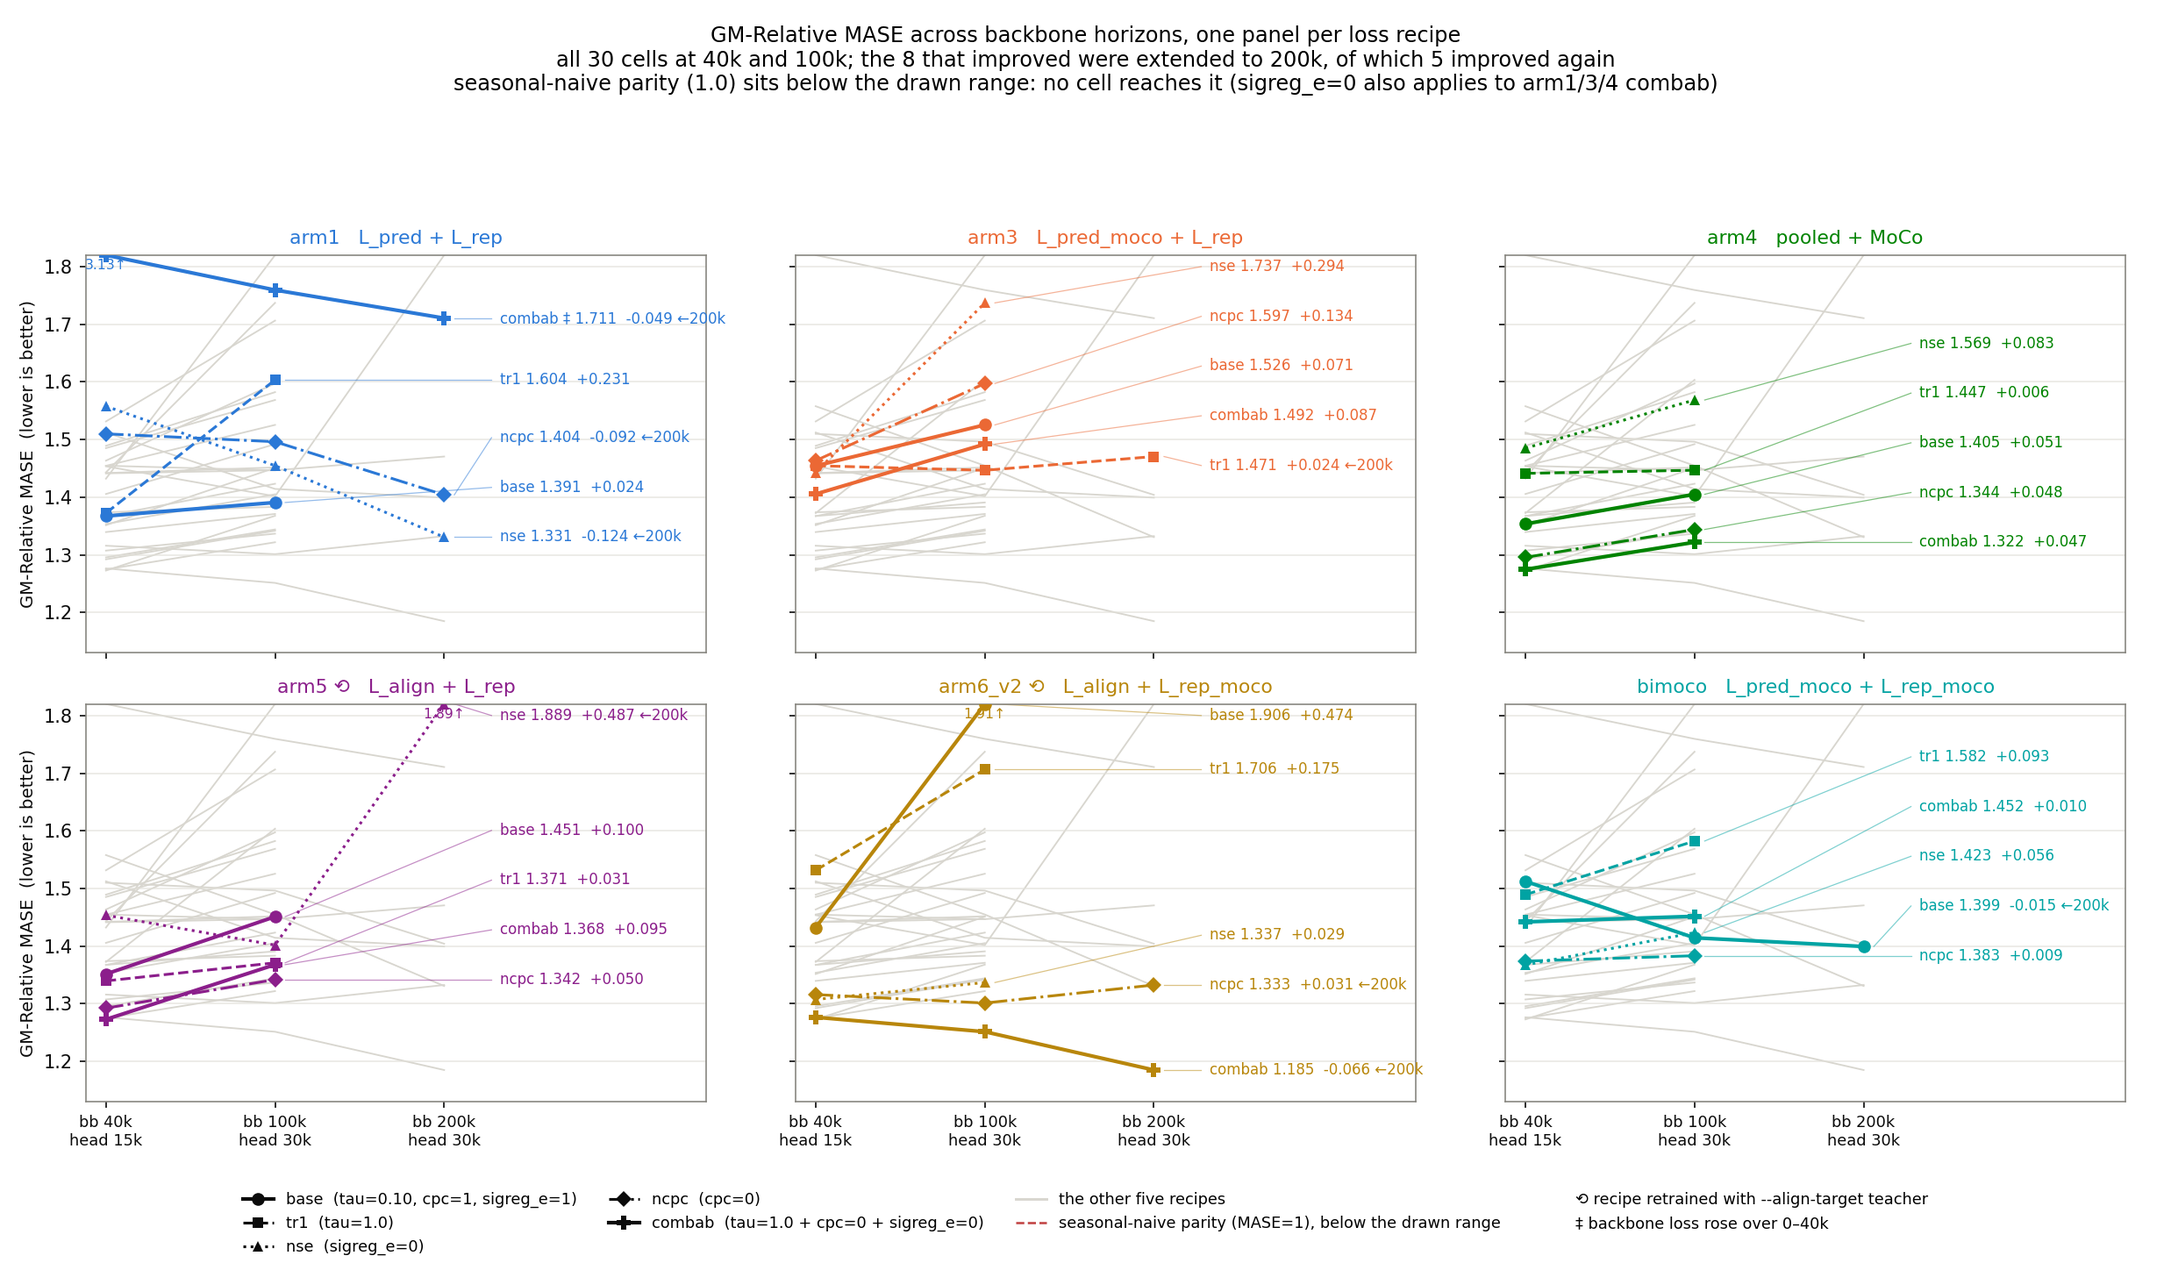
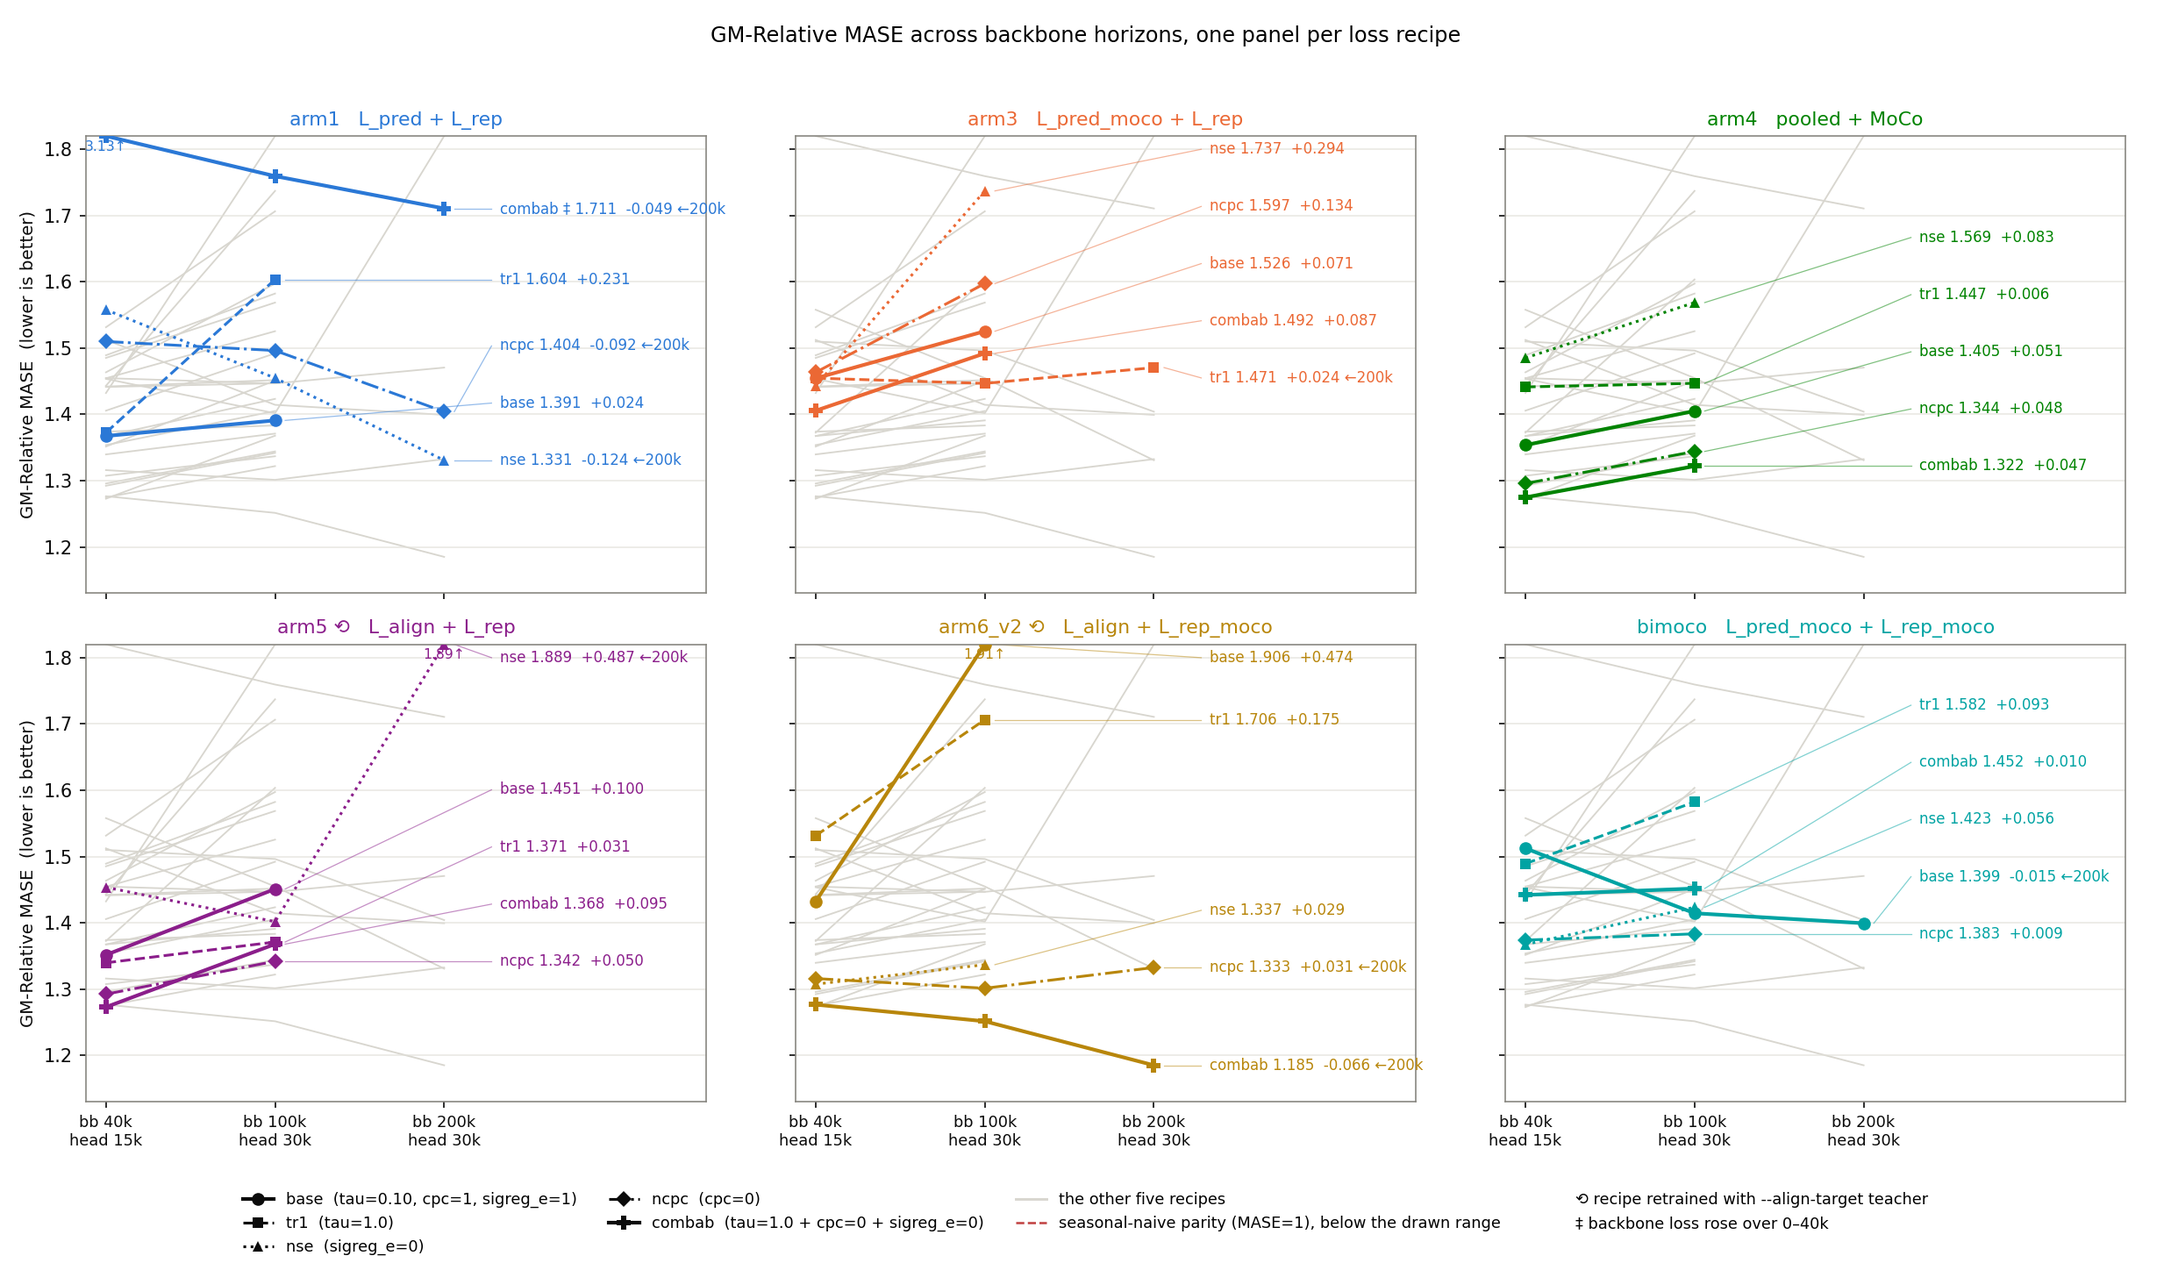
report(#390): state the teacher-vs-student premise in the opening, cut the protocol caveats that change no reading

diff --git a/reports/2026-08-04_lalign_teacher/plots/_make_eval_per_recipe.py b/reports/2026-08-04_lalign_teacher/plots/_make_eval_per_recipe.py
@@ -133,13 +133,9 @@ fig.legend(handles=handles, loc="lower center", ncol=4, fontsize=8.5,
 n200 = sum(1 for _a, _v, vals in cells if vals[2] is not None)
 down = sum(1 for _a, _v, vals in cells
            if vals[2] is not None and vals[1] is not None and vals[2] < vals[1])
-fig.suptitle("GM-Relative MASE across backbone horizons, one panel per loss recipe\n"
-             f"all 30 cells at 40k and 100k; the {n200} that improved were extended to 200k, "
-             f"of which {down} improved again\n"
-             "seasonal-naive parity (1.0) sits below the drawn range: no cell reaches it "
-             "(sigreg_e=0 also applies to arm1/3/4 combab)",
+fig.suptitle("GM-Relative MASE across backbone horizons, one panel per loss recipe",
              fontsize=11.5)
-fig.tight_layout(rect=[0, 0.075, 1, 0.905])
+fig.tight_layout(rect=[0, 0.075, 1, 0.96])
 out = HERE / "eval_2L_gm_mase_per_recipe.png"
 fig.savefig(out)
 print(f"wrote {out}  ({len(cells)} cells, {n200} at 200k, {down} improved again)")

diff --git a/reports/2026-08-04_lalign_teacher/lalign_teacher.md b/reports/2026-08-04_lalign_teacher/lalign_teacher.md
@@ -1,6 +1,6 @@
-# The EMA-teacher alignment target does not move the ten-cell set at backbone 40k, within a bound of 0.088 GM-Relative MASE
+# The EMA-teacher alignment target does not move the ten controlled pairs at backbone 40k, within a bound of 0.088 GM-Relative MASE
 
-Six of the ten controlled pairs favour the teacher and four the student, a split the paired tests do not separate from zero. Of the two cells re-headed under three head seeds, the larger effect changes sign under re-heading and the smaller one, `arm5 combab`, does not.
+The earlier sweep computed `L_align` against the student encoder; these ten cells retrain it against the EMA teacher. Six of the ten controlled pairs favour the teacher and four the student, a split the paired tests do not separate from zero. The `arm5 base` delta flips sign across the three head seeds; `arm5 combab` holds its sign on all three.
 
 ![Teacher minus student GM-Relative MASE at backbone 40k](plots/controlled_vs_cross_delta.png)
 
@@ -24,13 +24,13 @@ Six of the ten controlled pairs favour the teacher and four the student, a split
 
 ![The same data, one panel per loss recipe](plots/eval_2L_gm_mase_per_recipe.png)
 
-*The same 30 cells, one panel per loss recipe; the other five recipes stay in grey behind each panel. ⟲ retrained with `--align-target teacher`, ‡ the backbone whose loss rose over the whole 0–40k window (section 5).*
+*The same 30 cells, one panel per loss recipe.*
 
 In both retrained recipes `base` is the highest setting at backbone 100k, and in `arm6_v2` the `combab` setting is the lowest at all three backbone steps.
 
 ![GM-Relative MASE of all 30 cells at backbone 40k, seasonal-naive parity dashed](plots/eval_2L_gm_mase_bars.png)
 
-*All 30 cells at backbone 40k. Dashed line = seasonal-naive parity. ‡ = the backbone whose loss rose over the whole 0–40k window (section 5). † = measured head-seed range.*
+*All 30 cells at backbone 40k.*
 
 ![GM-Relative MASE of all 30 cells at backbone 100k](plots/eval_2L_gm_mase_bars_100k.png)
 
@@ -62,13 +62,13 @@ Four of the ten retrained cells score lower than the earlier sweep at backbone 1
 
 ![Late h_t drift against the 100k to 200k change in GM-Relative MASE](plots/drift_vs_improvement.png)
 
-*Panel 1 is the latent movement between adjacent checkpoints; panel 2 the GM-Relative MASE of the same cells; panel 3 late `h_t` drift against the 100k→200k change (`results/latent_movement_pairs.csv`).*
+*Latent movement, GM-Relative MASE and late `h_t` drift against the 100k→200k change (`results/latent_movement_pairs.csv`).*
 
 ## 5. The worst cell at each horizon
 
 ![Backbone loss and attention logit magnitude of the worst cell at each backbone step](plots/per_run_loss.png)
 
-*The three cells with the highest GM-Relative MASE of the field at backbone 40k, at 100k and at 200k (`results/gm_relative_mase.csv`, `results/training_curves/`, `results/attn_amplitude/`). Selected run in colour, the other four settings of the same recipe in grey.*
+*The three cells with the highest GM-Relative MASE of the field at backbone 40k, at 100k and at 200k (`results/gm_relative_mase.csv`, `results/training_curves/`, `results/attn_amplitude/`).*
 
 No non-finite loss or gap appears in any of the 40 backbones, and `arm1 combab` is the only one whose loss ends the 0–40k window above where it started ([table](#loss-and-attention-of-the-worst-cell)).
 
@@ -262,19 +262,19 @@ Nine of the ten student controls reproduce the earlier sweep's number and share 
 
 ### Metrics
 
-- **GM-Relative MASE** — geometric mean over 97 GIFT-Eval configs of `MASE(model) / MASE(seasonal_naive)`, official GIFT-Eval **B4 strategy** (single-window in-context prediction, backbone context length matching the config's expected horizon), forecast horizon 16. Lower is better; above 1.0 means seasonal naive wins on that geometric average. All 30 cells share one seasonal-naive denominator file, byte-identical to the earlier sweep's, so all of them sit on one scale. The 20 cells without `⟲` carry no `L_align` term and are the earlier sweep's numbers, on that same denominator.
-- **Per-config sources** — `results/eval_gm_mase/<cell>_bb<step>k_hd<head>s/all_results.csv`, one directory per cell, backbone step and head seed. The per-domain figure and table read from those files.
-- **Rounding** — every aggregate in this report is computed at full precision from the per-config `all_results.csv` files and rounded once, to four decimals, at print time. A per-seed difference can therefore differ by 0.0001 from the difference of the two rounded numbers printed beside it. The reproduction-control table is the exception: it prints six decimals, and a row counts as reproducing when the difference is at most 0.0002 in absolute value, the resolution of the four-decimal tables elsewhere.
+- **GM-Relative MASE** — geometric mean over 97 GIFT-Eval configs of `MASE(model) / MASE(seasonal_naive)`, official GIFT-Eval **B4 strategy** (single-window in-context prediction, backbone context length matching the config's expected horizon), forecast horizon 16. Lower is better; above 1.0 means seasonal naive wins on that geometric average. All 30 cells share one seasonal-naive denominator file, byte-identical to the earlier sweep's, so the 20 cells without `⟲`, which carry no `L_align` term and are the earlier sweep's numbers, sit on the same scale as the retrained ten.
+- **Per-config sources** — `results/eval_gm_mase/<cell>_bb<step>k_hd<head>s/all_results.csv`, one directory per cell, backbone step and head seed.
+- **Rounding** — every aggregate in this report is computed at full precision from the per-config `all_results.csv` files and rounded once, to four decimals, at print time. A per-seed difference can therefore differ by 0.0001 from the difference of the two rounded numbers printed beside it.
 - **95% dataset-cluster bootstrap** — the one interval used everywhere in this report: a dataset-level paired cluster bootstrap over the 28 base datasets, 10 000 resamples (`experiments/2026-08-01_lalign_teacher/scripts/controlled_delta.py`). It covers eval sampling only, conditional on the two trained models. The interval is computed on the ratio of the two GM-Relative MASE values; the whiskers in the delta figures are `(bound − 1) ×` the reference cell's GM-Relative MASE, which is what "rescaled" means in those figures.
-- **Head-seed range** — the spread of a cell's GM-Relative MASE when the quantile head is retrained on the frozen backbone under extra seeds, changing its init and its data order, with the full 97-config eval re-run each time. It covers head retraining, which the bootstrap interval does not. **It is a property of one cell.** The eight frozen backbones measured here range from 0.0018 to 0.0908, and the four measured at backbone 40k with a 15 000-step head, where every controlled delta sits, range from 0.0018 to 0.0747. The 0.0908 comes from a backbone-200k cell with a 30 000-step head, so it does not gate a 40k delta; `results/seed_spread.csv` keys on arm, backbone step, align target and code snapshot, and never merges a teacher cell with a student cell.
+- **Head-seed range** — the spread of a cell's GM-Relative MASE when the quantile head is retrained on the frozen backbone under extra seeds, changing its init and its data order, with the full 97-config eval re-run each time. It covers head retraining, which the bootstrap interval does not. The eight frozen backbones measured here range from 0.0018 to 0.0908, and the four measured at backbone 40k with a 15 000-step head, where every controlled delta sits, range from 0.0018 to 0.0747.
 - **`h_t`, `e_t`** — the encoder-output latent and the patch-embedding latent, shape `[B, T, C, H]`.
 - **`ff`** — mean `cos(f̂, h_{t+1})` between the forecaster's next-step prediction and the encoder's next-step latent, unit-normalised. `1 − ff` is a cosine distance in [0, 2]; smaller = closer forecast.
 - **Latent drift** at checkpoint pair `(step_i, step_j)` — `mean_{b,t,c} 1 − cos(h_t(model_j), h_t(model_i))` on a fixed held-out batch (`torch.manual_seed(20260722)`, `B=8`, `T=4096`, `C=1`, ARMA-synthetic), and the same for `e_t`. A setting counts as *lower* than base when its mean drift over adjacent-checkpoint pairs falls below the base setting of the same recipe; the section-4 denominator is the six recipes and the p is a two-sided exact binomial test.
 - **Late drift** — the mean `h_t` drift over adjacent-checkpoint pairs beyond backbone step 100 000.
 - **`u_batchtime`** — `1/(d · off-diagonal Gram mean)` over `(B×T)` samples of the given latent, clamped to [0, 1]. 1 = every `H` dimension carries independent information.
 - **`L_align`** — `(2 − 2·cos(f_t, h_target_{t+1})).mean()`, pulling the forecaster output toward the next encoder latent, gradient through the forecaster only. `--align-target student` takes `h_target` from the student encoder under stop-gradient; `--align-target teacher` takes it from the EMA teacher, an exponential-moving-average copy of the encoder weights. The student target is the comparison side of every controlled delta here; the ten `⟲` cells are the teacher setting.
-- **Re-headed** — the quantile head was retrained on the same frozen backbone under a different `--seed`. The backbone is unchanged.
-- **Code snapshot** — which checkout produced a number: `#390-branch` is this branch, `#379-sweep` is the earlier sweep it is compared against. The column is `code_snapshot` in `results/gm_relative_mase.csv`.
+- **Re-headed** — the quantile head was retrained on the same frozen backbone under a different `--seed`.
+- **Code snapshot** — the `code_snapshot` column of `results/gm_relative_mase.csv` records which checkout produced a number: this branch, or the earlier sweep it is compared against.
 - **Loss window** — each loss value in section 5 is the mean over the first, or the last, 5% of the logged steps of that window, not the value at a single step. **Rise-from-minimum** is the run's final loss minus the lowest loss it ever recorded; rank 1 = lowest of the 40 backbones, the same direction as the peak qk logit rank.
 - **Peak qk logit** — `qk_logit_maxabs`, the peak absolute pre-softmax attention logit, logged every 200 steps; the table value is the maximum over layers, over the `enc` and `fcst` blocks, and over the run, while the lower panels of the section-5 figure plot it averaged over layers and blocks. Rank 1 = lowest of the 40 backbones.
 
@@ -298,21 +298,19 @@ Quantile head, trained on the frozen backbone, `--grad-clip 1.0` at every horizo
 | `--total-steps` | 15,000 | 30,000 | 30,000 |
 | head seed | 20260722 | 20260722 | 20260722 |
 
-Eight cells were additionally re-headed under seeds 20260723 and 20260724 on the same frozen backbone, everything else unchanged: `arm5 base` and `arm5 combab` at 40k on both the teacher and the student side, `arm6_v2 base` at 100k, and `arm5 nse`, `arm6_v2 ncpc` and `arm6_v2 combab` at 200k on the teacher side. `experiments/2026-08-01_lalign_teacher/scripts/run_head_seeds.sh` runs them; `scripts/verify_head_seeds_40k.py` gates the twelve 40k measurements on 97 configs, one shared config set, and an aggregate that reproduces the committed summary.
+Eight cells were additionally re-headed under seeds 20260723 and 20260724 on the same frozen backbone, everything else unchanged: `arm5 base` and `arm5 combab` at 40k on both the teacher and the student side, `arm6_v2 base` at 100k, and `arm5 nse`, `arm6_v2 ncpc` and `arm6_v2 combab` at 200k on the teacher side, with the twelve 40k measurements gated on 97 configs, one shared config set, and an aggregate that reproduces the committed summary.
 
 ### What a comparison here can and cannot carry
 
 - The head budget changes with the backbone step (15k at 40k, 30k at 100k and 200k), so any within-arm statement across backbone steps moves two things at once.
 - The left radar of section 2 mixes cells measured at backbone 100k and at 200k, so it moves the backbone step as well as the cell.
-- The 200k row compares a teacher-selected subset against a differently selected subset of the earlier sweep, so no like-for-like 200k claim is available.
 - The ten per-cell intervals in the headline figure are 95% and uncorrected for the ten comparisons, so a per-cell reading is not a family-wise claim. The aggregate tests over the set of ten are the right frame (`results/controlled_paired_tests_40k.csv`).
-- Every backbone in this report, both targets, is seed 20260520. Nine of ten controls reproducing the earlier sweep therefore measures determinism given that seed, not the spread across backbone seeds. No cell here carries a second backbone seed.
-- One cell does carry a second backbone *trajectory*, and it is the largest replication datum in the run: the `arm5 base` replicate mismatch of section 7. That 0.0977 is larger than every 40k head-seed range measured here (0.0018 to 0.0747) and larger than the aggregate bound in the opening, and it sits within 0.001 of that same cell's own controlled delta, −0.0986: retraining this configuration from the same seed moves the cell about as much as switching the flag does. It is `n = 1` and it comes from a resume-induced divergence rather than a fresh backbone seed, so read it as a lower bound on backbone-trajectory spread, not as a seed-spread measurement. Everything else in this report's uncertainty budget is head seeds and eval sampling.
+- Every backbone in this report, both targets, is seed 20260520. Nine of ten controls reproducing the earlier sweep therefore measures determinism given that seed, not the spread across backbone seeds.
+- One cell does carry a second backbone *trajectory*, and it is the largest replication datum in the run: the `arm5 base` replicate mismatch of section 7. That 0.0977 is larger than every 40k head-seed range measured here (0.0018 to 0.0747) and larger than the aggregate bound in the opening, and it sits within 0.001 of that same cell's own controlled delta, −0.0986: retraining this configuration from the same seed moves the cell about as much as switching the flag does.
 - The head-seed spread is measured on 2 of the 10 controlled cells, `arm5 base` and `arm5 combab`; the other eight are marked `not measured`, not given a borrowed spread. Those two were picked by hand after their single-seed deltas were known, with no selection rule fixed in advance, and `arm5 ncpc` carries the largest single-seed difference of the run, −0.2156, and was never re-headed. So the surviving cell is one of two tested, not one of ten, and its 3-of-3 sign observation is p = 0.25 on its own, over per-seed differences running −0.0133 to −0.0230.
 - The ten pairs are two loss recipes by five settings on one backbone seed, and every pair shares the student baseline of its recipe's design, so `n = 10` in the sign and Wilcoxon tests is a nominal ten, not ten independent pairs. The two recipe means are −0.0657 (`arm5`) and +0.0273 (`arm6_v2`); with two clusters the support of a cluster-resampled mean is exactly those two values, so that enumeration is degenerate and the interval quoted in the opening is the t over the ten pairs.
-- Backbone provenance was checked by span query at backbone 40k and at backbone 100k. At 40k exactly one arm, `arm5`, carries two replicates spanning the step, and that is the one mismatch section 7 finds; at 100 000 no arm does, because the extra replicates are sequential continuations with disjoint ranges. A replicate deleted before the manifest was built would not appear in either query.
-- The 30-cell table is one head seed per cell. Its 40k→100k changes run from −1.3656 to +0.4735 and the four 40k head-seed ranges measured against them span 0.0018 to 0.0747, so rank order in that table is not separable from head-seed noise.
-- The 6/4 direction split feeding the sign test is single-seed on 8 of the 10 cells, and one of the two tested splits flipped under re-heading. That widens the null rather than narrowing it, so it does not weaken the aggregate verdict.
+- Backbone provenance was checked by span query at backbone 40k and at backbone 100k. At 40k exactly one arm, `arm5`, carries two replicates spanning the step, and that is the one mismatch section 7 finds; at 100 000 no arm does, because the extra replicates are sequential continuations with disjoint ranges.
+- The 30-cell table is one head seed per cell, so rank order in that table is not separable from head-seed noise.
 
 ### Data
 
